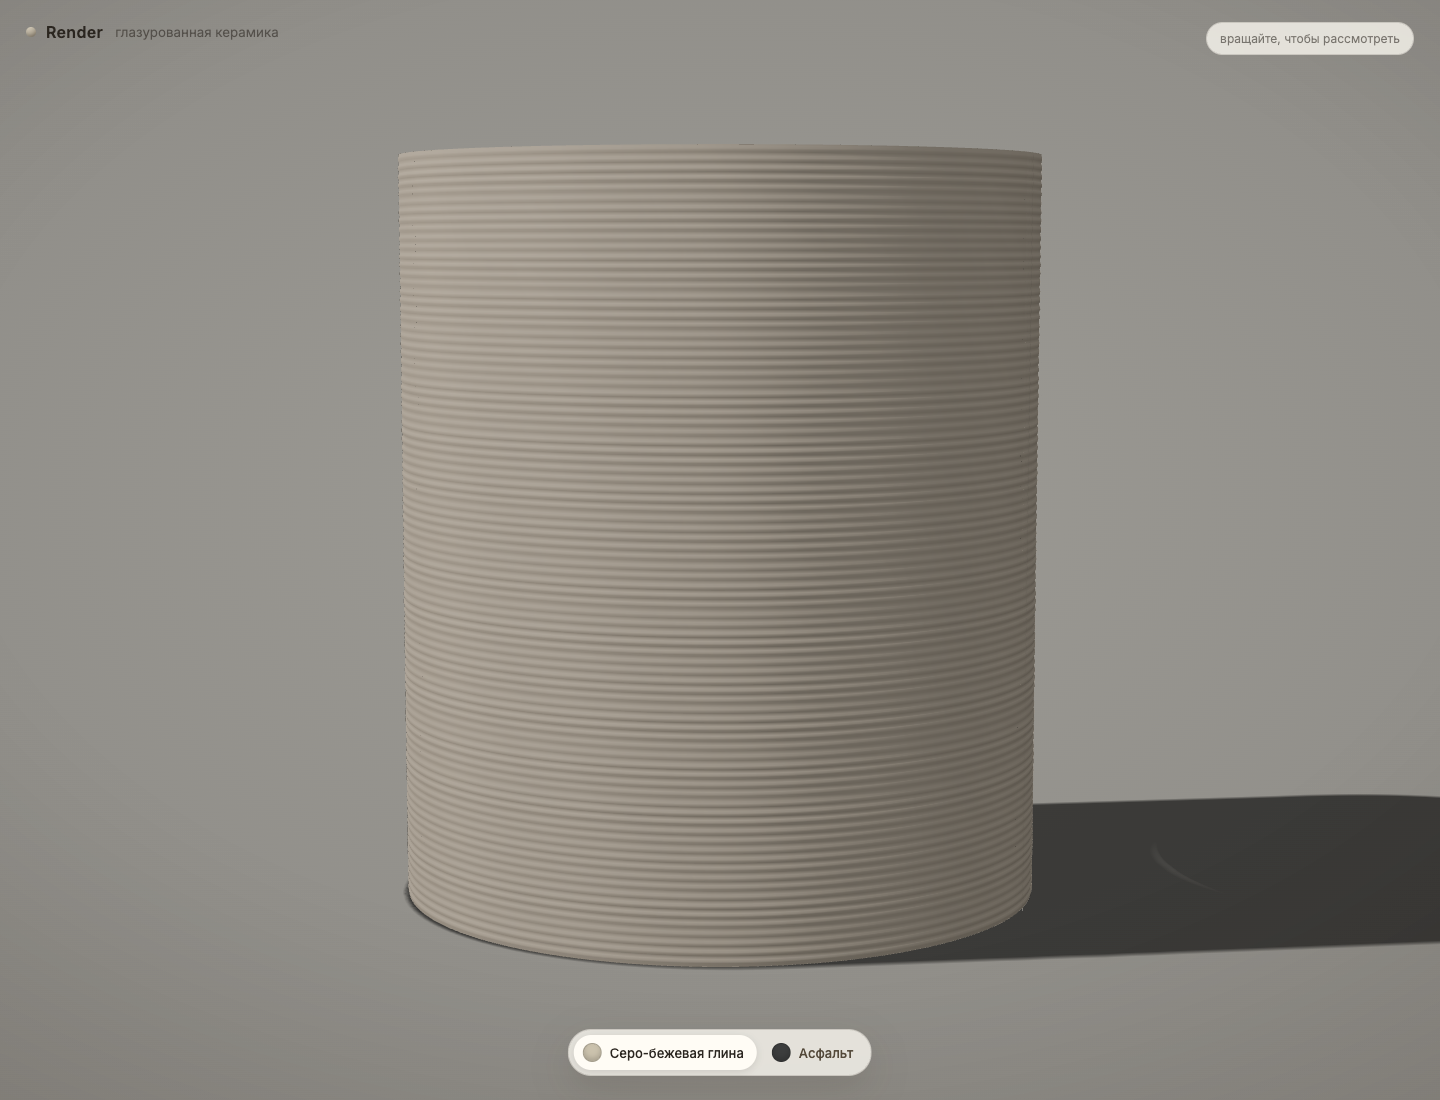
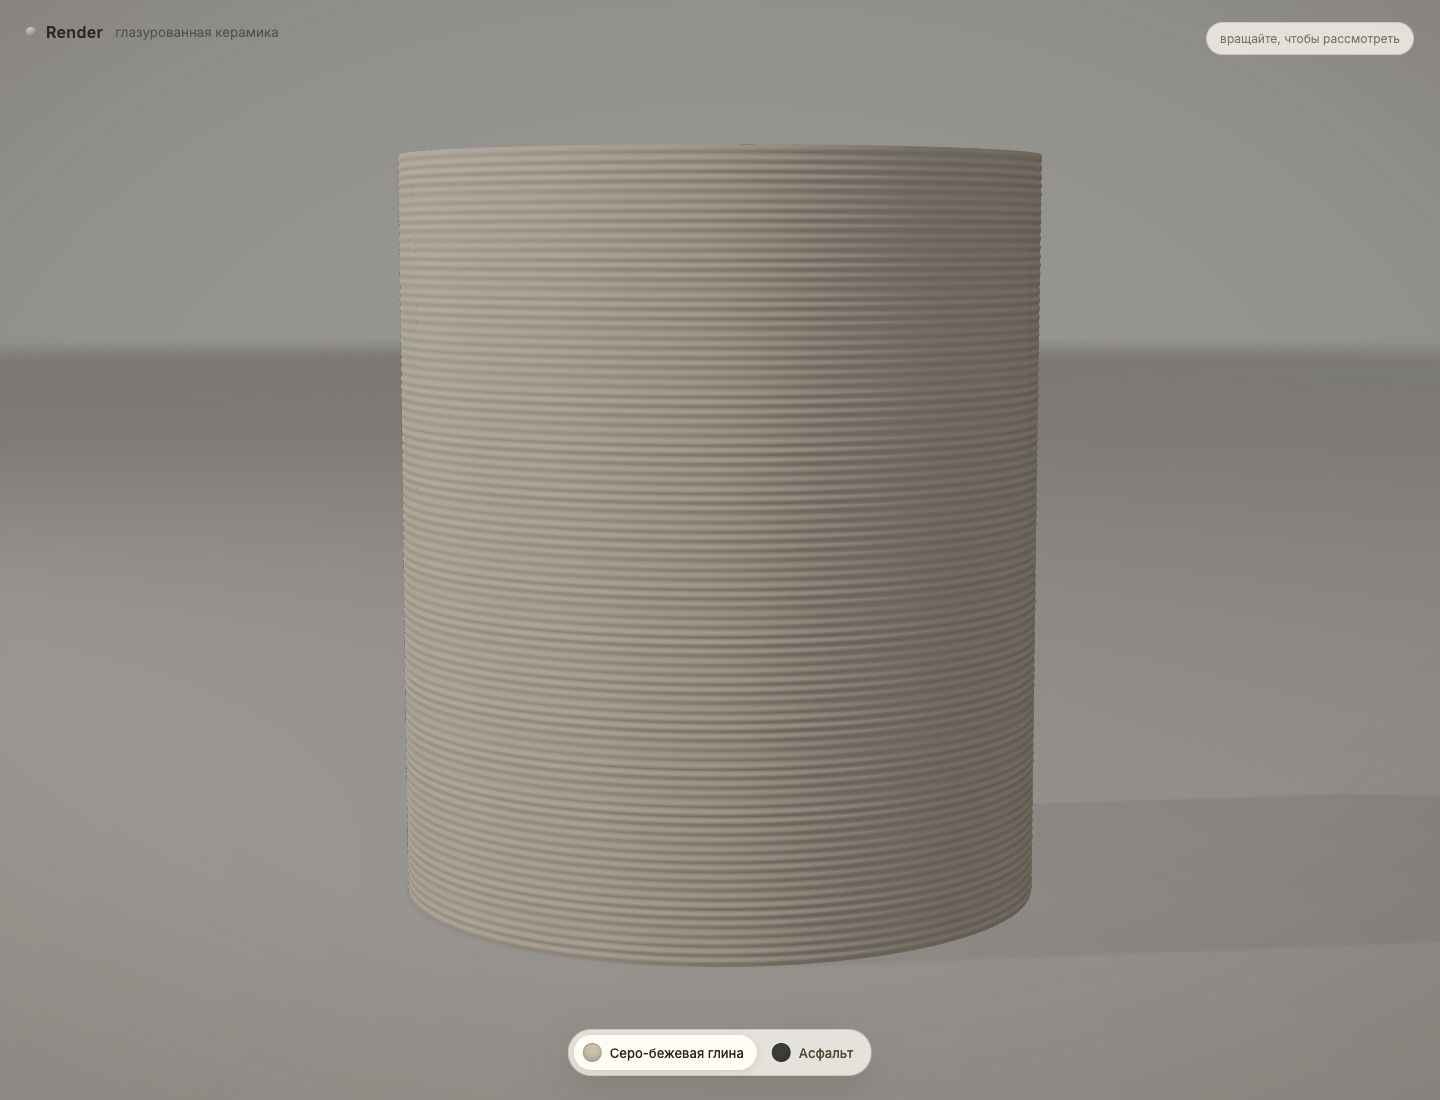
Matte velvet-paper receiver with soft VSM shadow, fading into backdrop

diff --git a/src/main.js b/src/main.js
@@ -117,20 +117,51 @@ const cupGroup = new THREE.Group();
 cupGroup.scale.setScalar(1000); // GLB is metres; the studio works in millimetres.
 scene.add(cupGroup);
 
-/* ---------------- seamless CSS studio backdrop ---------------- */
+/* ---------------- matte velvet paper floor ---------------- */
 /*
- * The WebGL canvas is transparent. There is no floor/wall mesh at all, so no
- * horizon or edge can appear. Real shadow maps are caught by an invisible
- * ShadowMaterial plane, which darkens the CSS backdrop only where shadows fall.
+ * The visible receiver is a soft, velvet-like paper disc: roughness 1, no
+ * reflection, high sheen. It receives the blurred VSM shadow and slowly fades
+ * into the CSS backdrop, so there is no hard floor edge or horizon.
  */
 
-const shadowCatcher = new THREE.Mesh(
-  new THREE.PlaneGeometry(760, 760).rotateX(-Math.PI / 2),
-  new THREE.ShadowMaterial({ opacity: 0.6 })
+function velvetAlphaTexture() {
+  const s = 1024;
+  const c = document.createElement("canvas");
+  c.width = s;
+  c.height = s;
+  const ctx = c.getContext("2d");
+  const g = ctx.createRadialGradient(s / 2, s / 2, 0, s / 2, s / 2, s / 2);
+  g.addColorStop(0, "rgb(255,255,255)");
+  g.addColorStop(0.55, "rgb(255,255,255)");
+  g.addColorStop(0.8, "rgb(244,244,244)");
+  g.addColorStop(1, "rgb(0,0,0)");
+  ctx.fillStyle = g;
+  ctx.fillRect(0, 0, s, s);
+  const t = new THREE.CanvasTexture(c);
+  t.colorSpace = THREE.NoColorSpace;
+  return t;
+}
+
+const paperMat = new THREE.MeshPhysicalMaterial({
+  color: 0x8d8b86,
+  roughness: 1,
+  metalness: 0,
+  sheen: 1,
+  sheenColor: 0x999690,
+  sheenRoughness: 1,
+  clearcoat: 0,
+  envMapIntensity: 0,
+  alphaMap: velvetAlphaTexture(),
+  transparent: true,
+});
+
+const paperFloor = new THREE.Mesh(
+  new THREE.CircleGeometry(1800, 96).rotateX(-Math.PI / 2),
+  paperMat
 );
-shadowCatcher.position.y = -0.15;
-shadowCatcher.receiveShadow = true;
-scene.add(shadowCatcher);
+paperFloor.position.y = -0.08;
+paperFloor.receiveShadow = true;
+scene.add(paperFloor);
 
 /* ---------------- GLB loading ---------------- */
 
